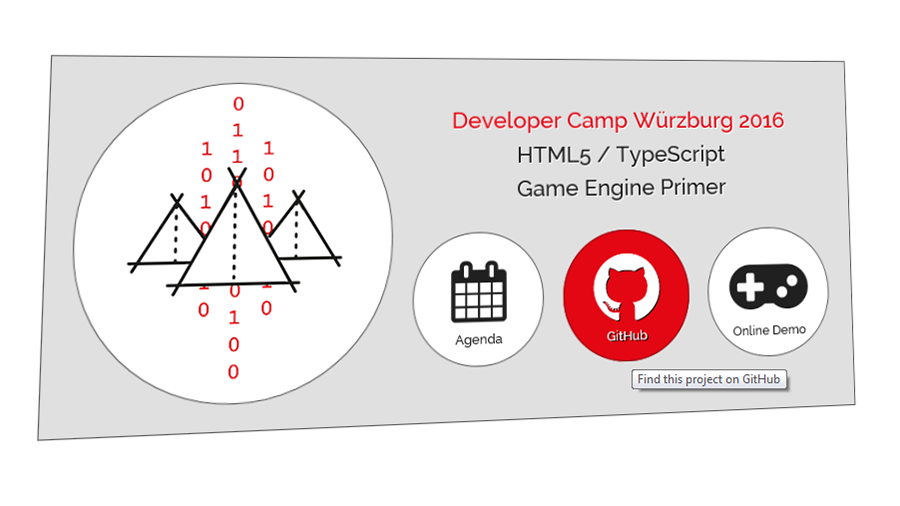
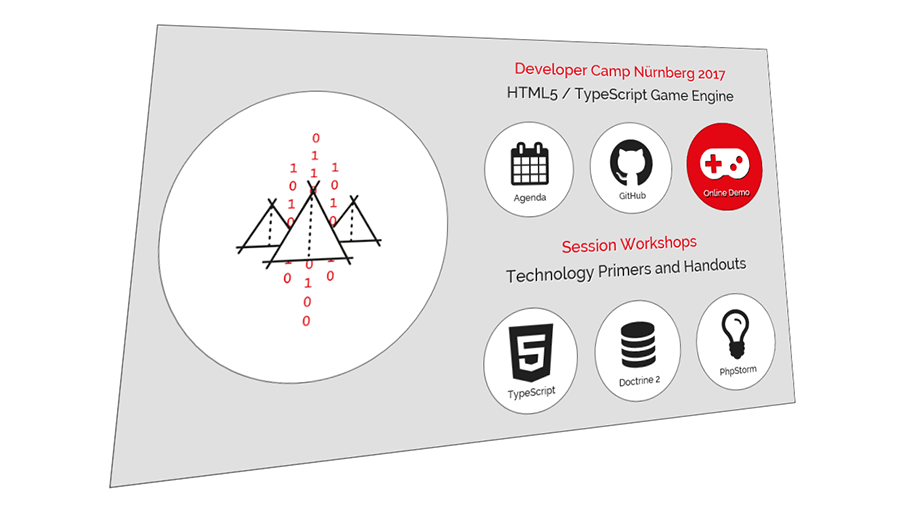
Minor welcome page improvements.

diff --git a/_ASSETS/welcome_page/index.html b/_ASSETS/welcome_page/index.html
@@ -23,10 +23,10 @@
         <meta property="og:image:type" content="image/png" />
         <meta property="og:image:width" content="900" />
         <meta property="og:image:height" content="506" />
-        <meta property="og:title" content="Developer Camp N&uuml;rnberg 2017 - HTML5 TypeScript Game Engine Primer" />
+        <meta property="og:title" content="Developer Camp N&uuml;rnberg 2017 - Workshops" />
         <meta property="og:url" content="http://devcamp.jenetic.de/" />
         <meta property="og:site_name" content="http://devcamp.jenetic.de/" />
-        <meta property="og:description" content="Ein Workshop zur Verwendung von TypeScript und zum Erstellen einer Game-Engine f&uuml;r 2D-Spiele unter HTML5." />
+        <meta property="og:description" content="Alle Workshops und Handouts des Developer Camps 2017 in N&uuml;rnberg" />
 
     </head>
 
